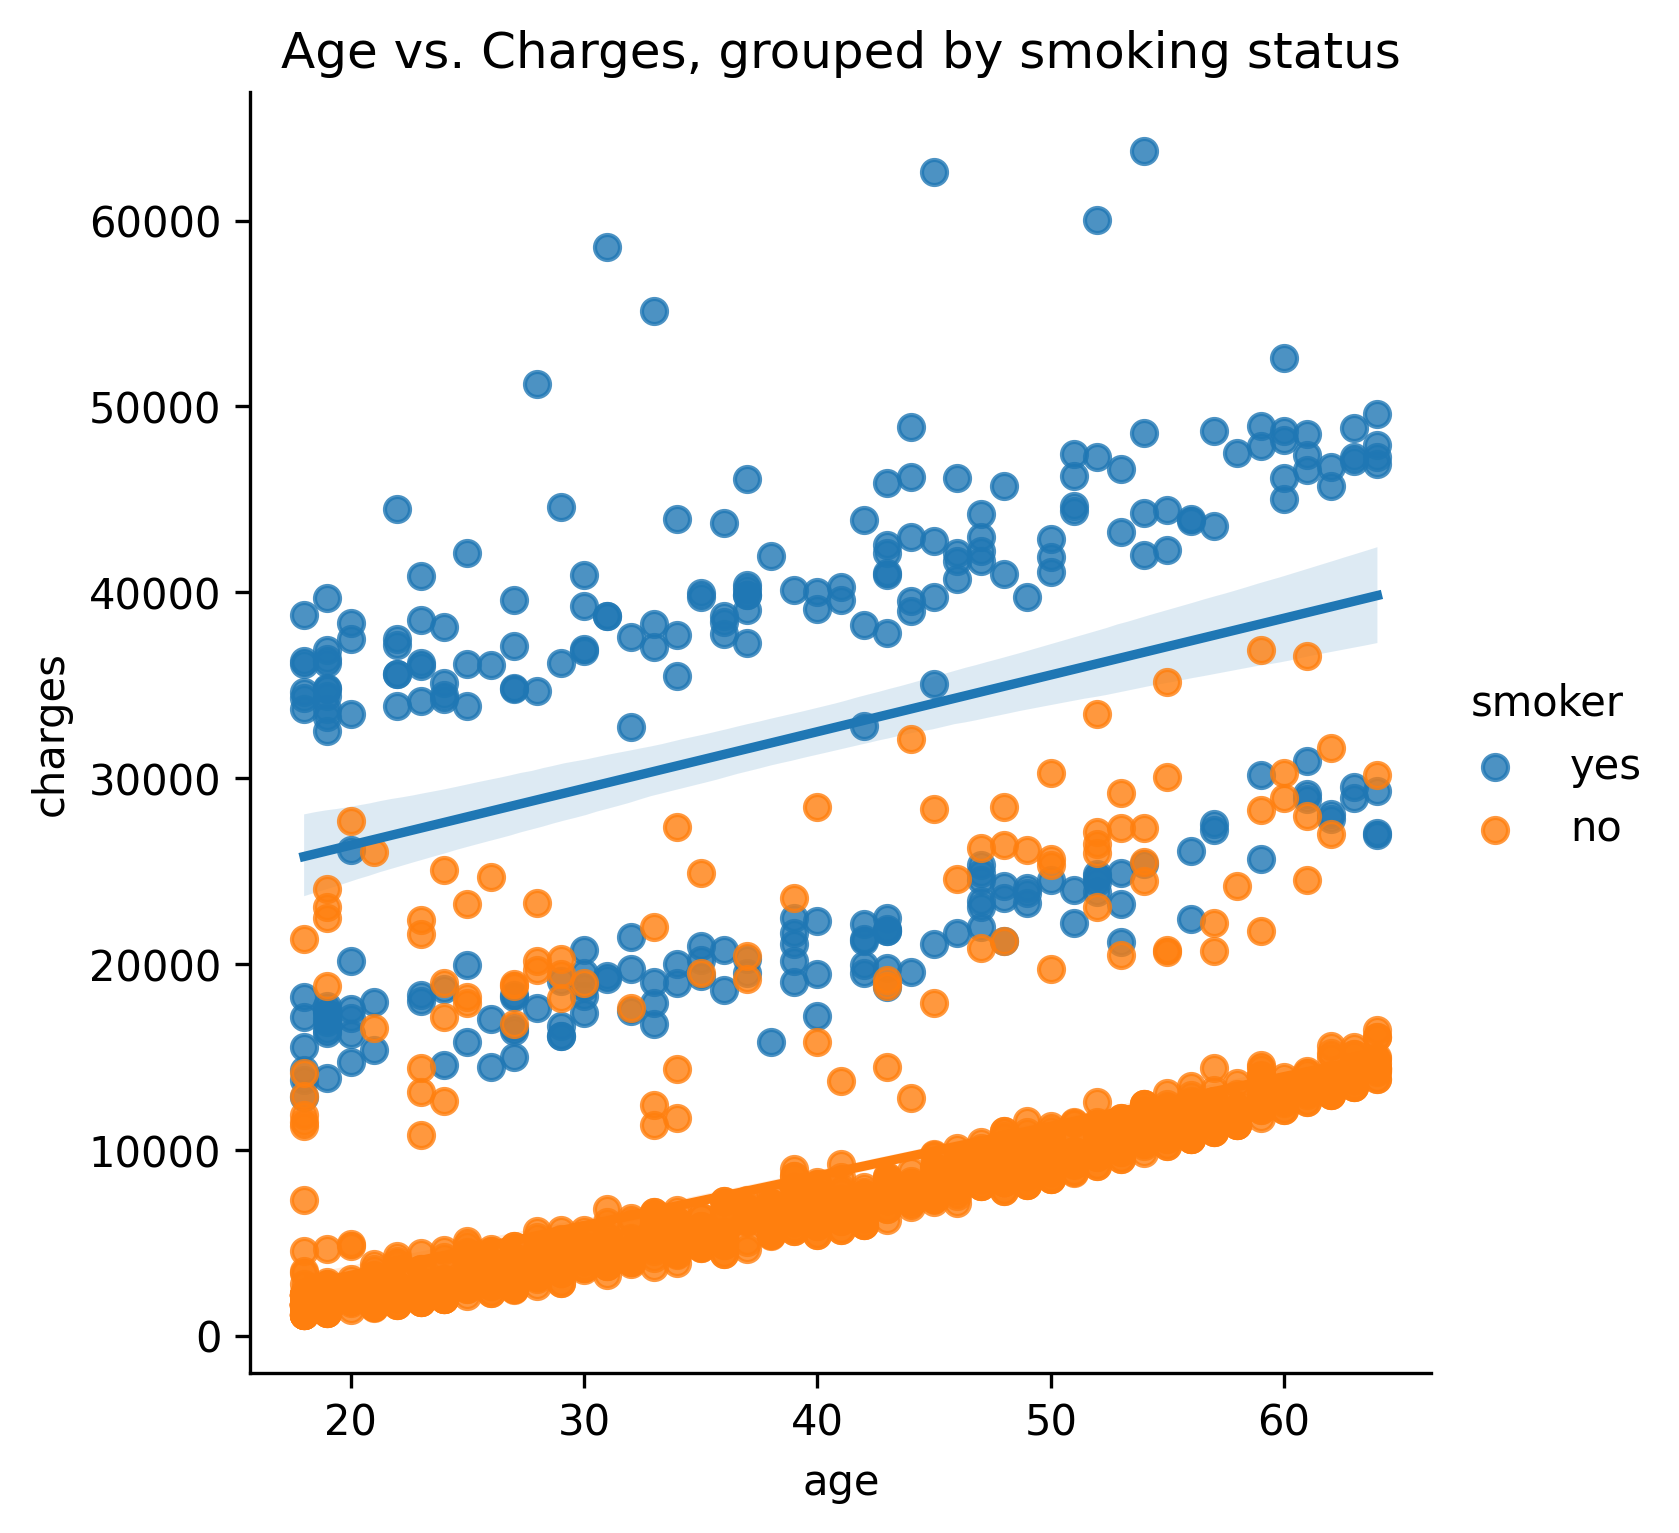
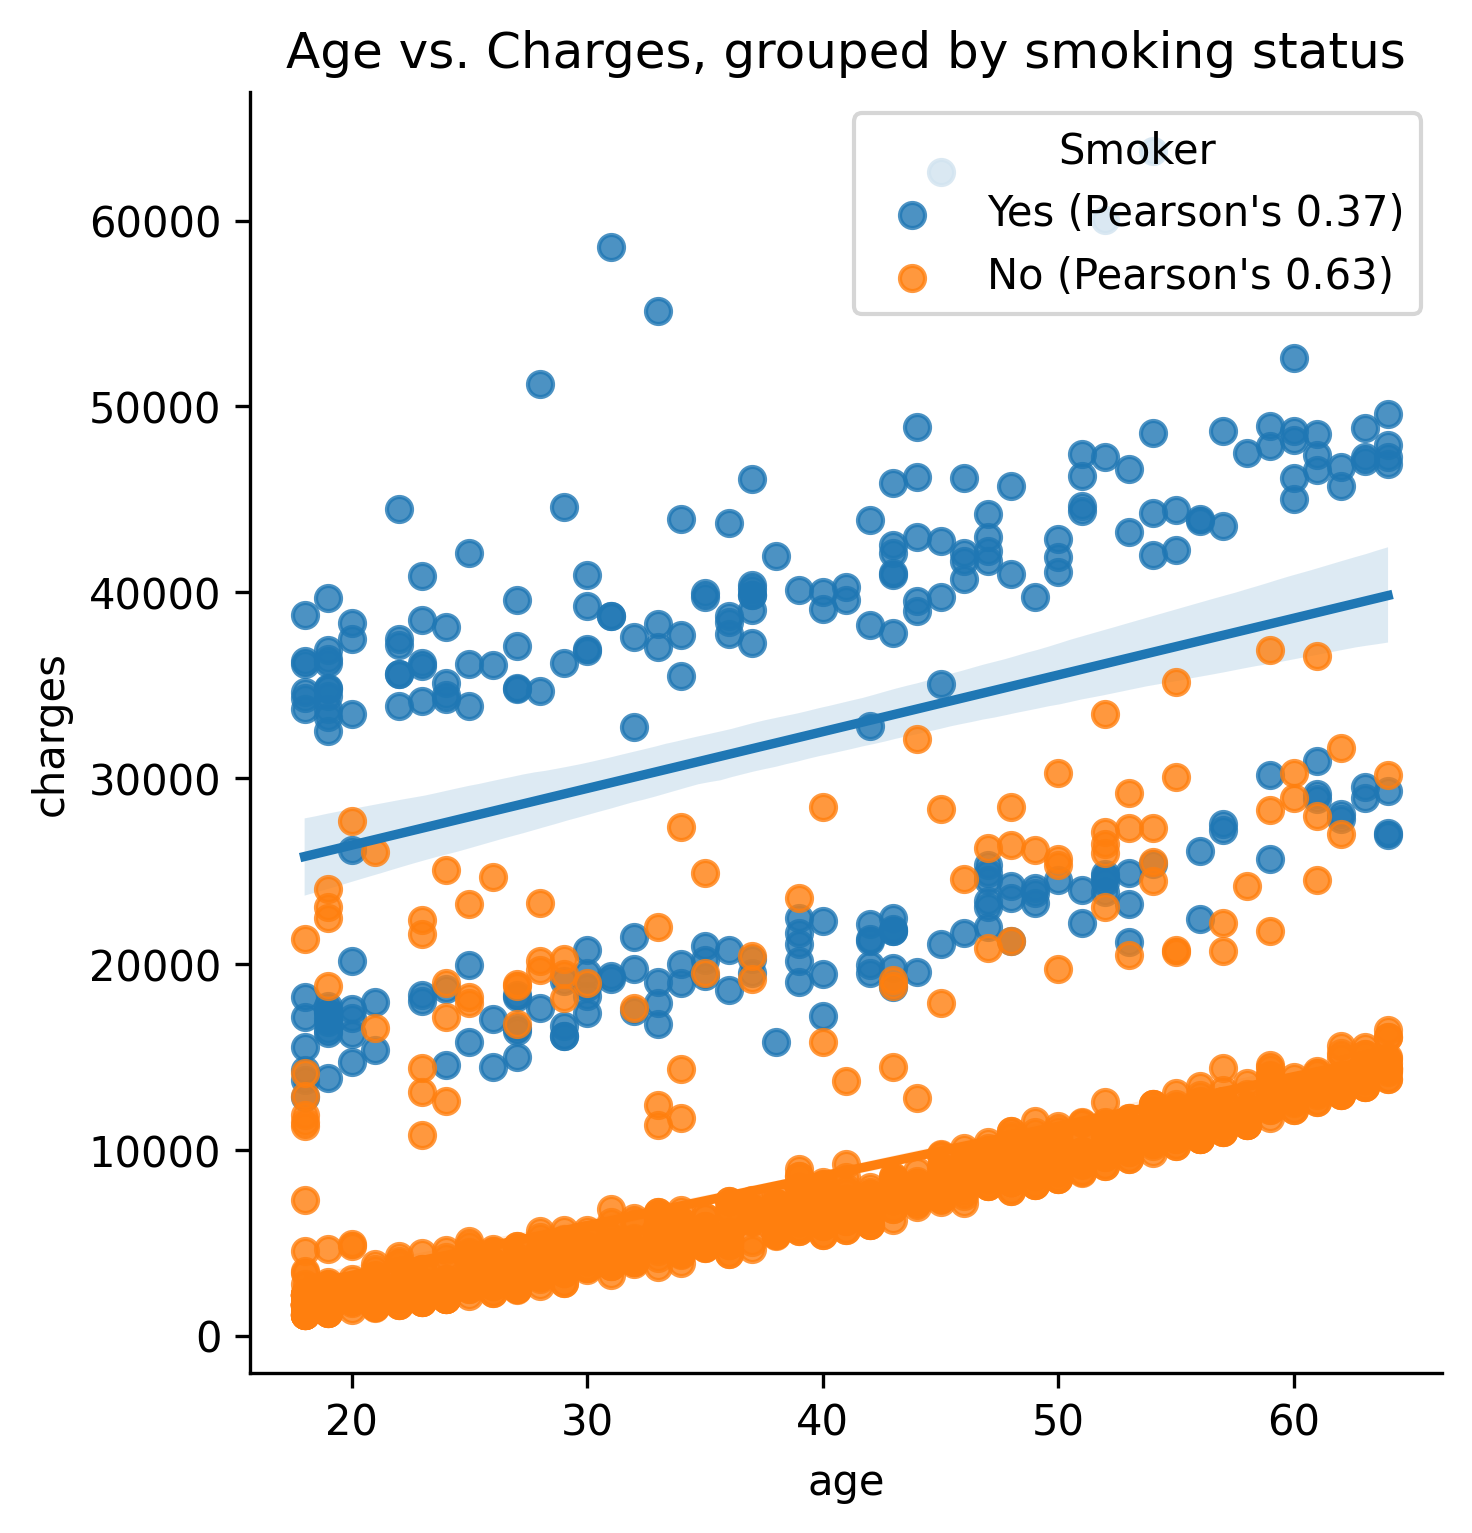
updated plots

diff --git a/cost_eda.py b/cost_eda.py
@@ -10,7 +10,7 @@ from pathlib import PureWindowsPath, Path
 project_dir = PureWindowsPath(r"D:\GitHubProjects\medical_cost_prediction\\")
 chdir(project_dir)
 dataset = pd.read_csv('./input/insurance.csv')
-output_dir = Path(project_dir, Path('./output/eda'))
+eda_output_dir = Path(project_dir, Path('./output/eda'))
 
 # ====================================================================================================================
 # EXPLORATORY DATA ANALYSIS 
@@ -106,7 +106,7 @@ cat_ord_cols.append('bmi_>=_30')
 # ==========================================================
 
 # Standardize image saving parameters
-def save_image(dir, filename, dpi=300, bbox_inches='tight'):
+def save_image(filename, dir=eda_output_dir, dpi=300, bbox_inches='tight'):
     plt.savefig(dir/filename, dpi=dpi, bbox_inches=bbox_inches)
 
 # Create dictionary of formatted column names  to be used for
@@ -411,7 +411,7 @@ pearsons = dataset.corr(method='pearson').round(2)
 spearmans = dataset.corr(method='spearman').round(2)
 
 # Format text box
-box_style = {'facecolor':'white', 'boxstyle':'round'}
+box_style = {'facecolor':'white', 'boxstyle':'round', 'alpha':0.9}
 
 # Loop through categorical variables, plotting each in the figure
 i = 0
@@ -446,8 +446,8 @@ for col in numerical_cols:
 # Finalize figure formatting and export
 fig.suptitle('Numerical Variable Exploration', fontsize=24)
 fig.tight_layout(h_pad=2) # Increase spacing between plots to minimize text overlap
-#save_filename = 'num_var_combined'
-#save_image(output_dir, save_filename, bbox_inches='tight')
+save_filename = 'num_var_combined_2'
+save_image(output_dir, save_filename, bbox_inches='tight')
 plt.show()
 
 
@@ -461,15 +461,48 @@ plt.show()
 sns.jointplot(x='age', y="charges", data = dataset, kind='kde', hue='smoker')
 plt.show()
 
-sns.lmplot(x='age', y='charges', hue="smoker", data=dataset)
-plt.title("Age vs. Charges, grouped by smoking status")
-#save_filename = 'age_vs_charges_grp_smoking_status'
-#save_image(output_dir, save_filename, bbox_inches='tight')
-plt.show()
-
 # There is obvious grouping of charges by smoking status, will separate out both groups
 smokers_data = dataset[dataset['smoker']=='yes'].copy()
 nonsmokers_data = dataset[dataset['smoker']=='no'].copy()
+
+# Calculate pearsons in smokers and nonsmokers
+pearson_smokers = smokers_data.corr(method='pearson').round(2)
+pearson_smokers_age_charge = pearson_smokers['age'].loc['charges']
+pearson_nonsmokers = nonsmokers_data.corr(method='pearson').round(2)
+pearson_nonsmokers_age_charge = pearson_nonsmokers['age'].loc['charges']
+
+sns.lmplot(x='age', y='charges', hue="smoker", data=dataset, legend=False)
+ax = plt.gca()
+ax.legend(title='Smoker', loc='upper right')
+leg = ax.get_legend()
+labels = leg.get_texts()
+for legend_label in labels:
+    if legend_label.get_text() == 'no':
+        legend_label.set_text("No (Pearson's %0.2f)" %pearson_nonsmokers_age_charge)
+    else:
+        legend_label.set_text("Yes (Pearson's %0.2f)" %pearson_smokers_age_charge)
+plt.title("Age vs. Charges, grouped by smoking status")
+#save_filename = 'age_vs_charges_grp_smoking_status'
+#save_image(save_filename)
+plt.show()
+
+
+
+g = sns.lmplot(x='age', y='charges', hue="bmi_>=_30", data=smokers_data, legend=False)
+ax = g.axes[0,0]
+ax.legend(title='BMI >= 30', loc='upper right')
+leg = ax.get_legend()
+labels = leg.get_texts()
+for legend_label in labels:
+    if legend_label.get_text() == 'no':
+        legend_label.set_text("No (Pearson's %0.2f)" %pearson_age_charge_nonob)
+    else:
+        legend_label.set_text("Yes (Pearson's %0.2f)" %pearson_age_charge_ob)
+
+
+
+
+
 
 sns.lmplot(x='age', y='charges', data=smokers_data)
 plt.title("Age vs. Charges in smokers")
